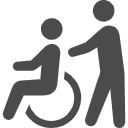
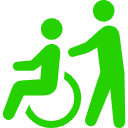
フォント・ボタン・アイコンの色を修正

diff --git a/map.html b/map.html
@@ -33,7 +33,7 @@
 <body>
     <div id="loading">
         <img id="loadImg1" src="./img/logo.png" alt="「いなさで暮らそうマップ」のロゴ">
-        <p>社会資源データを読み込んでいます...</p>
+        <p>社会資源データを<br>読み込んでいます...</p>
         <img id="loadImg2" src="./img/loading-square.gif" alt="ローディングのアニメーション">
     </div>
     <header>
@@ -42,7 +42,6 @@
         <div id="hamburger"><span></span><span></span><span></span><span>メニュー</span></div>
         <nav class="menu">
             <ul>
-                <!-- <li class="menu-item">メニュー</li> -->
                 <li class="menu-item"><a href="./index.html">トップページ</a></li>
                 <li class="menu-item"><a href="./list.html">社会資源一覧ページ</a></li>
                 <li class="menu-item"><a href="https://hamabosai.maps.arcgis.com/apps/webappviewer/index.html?id=d4070f31679d487ab858eb38d1d6ae3a" target="_blank">浜松市防災マップ</a></li>
@@ -55,7 +54,8 @@
     <div id="inasa-map"></div>
 
     <div id="checkbox">
-        <input id="check-close" type="button" value="閉じる">
+        <!-- <input id="check-close" type="button" value="閉じる"> -->
+        <a id="check-open-close">閉じる</a>
         <input id="acd-check" type="checkbox" checked><label id="acd-label" for="acd-check">「できること検索」を開閉する</label>
         <div id="acd-content">
             <form name="form1">
@@ -80,16 +80,19 @@
                 <input id="check8" type="checkbox" name="dekirukoto" value="出かける" checked><label for="check8">出かける</label>
                 <input id="check9" type="checkbox" name="dekirukoto" value="ボランティア" checked><label for="check9">ボランティア</label>
             </form>
-            <input type="button" value="すべてにチェック" onclick="checkAll()">
-            <input type="button" value="すべてのチェックを外す" onclick="checkNone()"><br class="br-350">
-            <input id="search-button" type="button" value="検索する" onclick="dkrSearch(); gtag('event', 'tap', {'event_category': 'dkrSearch', 'event_label': 'dkrSearch-tap', 'value': '1'})">
+            <!-- <input type="button" value="すべてにチェック" onclick="checkAll()"> -->
+            <a class="check-all-none" onclick="checkAll()">すべてにチェック</a>
+            <!-- <input type="button" value="すべてのチェックを外す" onclick="checkNone()"> -->
+            <a class="check-all-none" onclick="checkNone()">すべてのチェックを外す</a><br class="br-350">
+            <!-- <input id="search-button" type="button" value="検索する" onclick="dkrSearch(); gtag('event', 'tap', {'event_category': 'dkrSearch', 'event_label': 'dkrSearch-tap', 'value': '1'})"> -->
+            <a id="search-button" onclick="dkrSearch(); gtag('event', 'tap', {'event_category': 'dkrSearch', 'event_label': 'dkrSearch-tap', 'value': '1'})">検索する</a>
         </div>
         <p id="hit-count"></p>
         <hr>
         <ul id="check-result"></ul>
     </div>
 
-    <input id="current-location-button" type="button" value="現在地を取得" onclick="getCurrentLocation(); gtag('event', 'tap', {'event_category': 'getCurrentLocation', 'event_label': 'getCurrentLocation-tap', 'value': '1'})">
+    <a id="current-location-button" onclick="getCurrentLocation(); gtag('event', 'tap', {'event_category': 'getCurrentLocation', 'event_label': 'getCurrentLocation-tap', 'value': '1'})">現在地を取得</a>
 
     <a id="modal-open-btn" href="">アイコンの凡例を表示</a>
     <div id="modal-wrapper">

diff --git a/css/map.css b/css/map.css
@@ -7,9 +7,9 @@
 } */
 
 /* bodyのデフォルトを定義 */
-/* body {
-    font-family: "Kosugi Maru", sans-serif;
-} */
+body {
+    font-family: 'Hiragino Kaku Gothic ProN','ヒラギノ角ゴ ProN W3',YuGothic,'Yu Gothic',sans-serif;
+}
 
 /* デフォルトのmarginを削除 */
 body, h1, h2, h3, p, ul, li {
@@ -161,14 +161,6 @@ header {
 .menu li {
     border-top: 1px solid lightgray;
 }
-/* .menu li:first-child {
-    color: white;
-    background-color: darkslategray;
-    text-align: center;
-    line-height: 40px;  /* headerに指定したline-heightの影響を打ち消す。 */
-    /* font-size: 12px;
-    border-top: none;
-} */
 .menu li a {
     display: block;
     padding: 0 25px;
@@ -194,9 +186,11 @@ header {
     left: 15px;
     z-index: 1; /* 「現在地を取得」より前に出すため。 */
 }
-#checkbox input[type="button"] {
-    color: black;
+#checkbox #check-open-close {
     background-color: white;
+    padding: 3px 5px;
+    border-radius: 5px;
+    border: solid 1px black;
 }
 /* チェックボックスのスタイルここから */
 #checkbox input[type="checkbox"] {
@@ -246,7 +240,7 @@ header {
     display: inline-block;
     margin: 4px 5px 5px 2px;
 }
-#checkbox #check-close.check-close ~ * {
+#checkbox #check-open-close.check-open-close ~ * {
     display: none;
 }
 #checkbox input#acd-check, #checkbox input#acd-check+label::before, #checkbox input#acd-check:checked+label::after {
@@ -255,8 +249,10 @@ header {
 #checkbox #acd-label {
     background-color: white;
     color: black;
-    padding: 3px 5px;
+    padding: 3px 5px 3px 0;
+    border-radius: 5px;
     margin: 0 7px;
+    border: solid 1px black;
 }
 #checkbox #acd-content {
     height: 0;
@@ -271,19 +267,27 @@ header {
     visibility: visible;
     margin-top: 15px;
 }
+#checkbox .check-all-none {
+    background-color: white;
+    padding: 3px 5px;
+    border-radius: 5px;
+    border: solid 1px black;
+}
 #checkbox #search-button {
     display: block;
+    width: 100px;
+    text-align: center;
     margin: 10px auto;
+    padding: 3px 5px;
     color: white;
     background-color: #457745;
-    border-color: white;
+    border-color: solid 1px white;
     border-radius: 5px;
 }
 #checkbox #hit-count {
     margin: 12px 0 4px 0;
 }
 #checkbox #check-result {
-    font-size: 14px;
     max-height: 345px;
     overflow-y: scroll;
 }
@@ -294,18 +298,22 @@ header {
 
 #current-location-button {
     position: absolute;
-    bottom: 80px;
+    bottom: 85px;
     left: 10px;
+    background-color: white;
+    font-size: 14px;
+    padding: 3px 5px;
+    border-radius: 5px;
+    border: solid 1px black;
 }
 
 /* アイコン凡例のモーダルここから */
 #modal-open-btn {
-    display: inline-block;
     position: absolute;
     bottom: 50px;
     left: 10px;
     background-color: white;
-    font-size: 12px;
+    font-size: 14px;
     padding: 3px 5px;
     border-radius: 5px;
     border: solid 1px black;
@@ -427,7 +435,7 @@ footer {
     /* ここまで「できること」検索 */
 
     #current-location-button {
-        bottom: 120px;
+        bottom: 125px;
     }
     #modal-open-btn {
         bottom: 90px;
@@ -445,7 +453,7 @@ footer {
     }
 
     #current-location-button {
-        bottom: 90px;
+        bottom: 95px;
     }
     #modal-open-btn {
         bottom: 60px;

diff --git a/js/map.js b/js/map.js
@@ -110,12 +110,12 @@ $(function() {
         })
     });
 
-    $("#check-close").click(function() {
-        $(this).toggleClass("check-close");
-        if($(this).hasClass("check-close")) {
-            $(this).attr("value", "開く");
+    $("#check-open-close").click(function() {
+        $(this).toggleClass("check-open-close");
+        if($(this).hasClass("check-open-close")) {
+            $(this).text('開く');
         } else {
-            $(this).attr("value", "閉じる");
+            $(this).text('閉じる');
         }
     });
 

diff --git a/detail.html b/detail.html
@@ -28,7 +28,7 @@
 <body>
     <div id="loading">
         <img id="loadImg1" src="./img/logo.png" alt="「いなさで暮らそうマップ」のロゴ">
-        <p>社会資源データを読み込んでいます...</p>
+        <p>社会資源データを<br>読み込んでいます...</p>
         <img id="loadImg2" src="./img/loading-square.gif" alt="ローディングのアニメーション">
     </div>
     <header>

diff --git a/list.html b/list.html
@@ -33,7 +33,7 @@
 <body>
     <div id="loading">
         <img id="loadImg1" src="./img/logo.png" alt="「いなさで暮らそうマップ」のロゴ">
-        <p>社会資源データを読み込んでいます...</p>
+        <p>社会資源データを<br>読み込んでいます...</p>
         <img id="loadImg2" src="./img/loading-square.gif" alt="ローディングのアニメーション">
     </div>
 

diff --git a/css/detail.css b/css/detail.css
@@ -7,9 +7,9 @@
 } */
 
 /* bodyのデフォルトを定義 */
-/* body {
-    font-family: "Kosugi Maru", sans-serif;
-} */
+body {
+    font-family: 'Hiragino Kaku Gothic ProN','ヒラギノ角ゴ ProN W3',YuGothic,'Yu Gothic',sans-serif;
+}
 
 /* デフォルトのmarginを削除 */
 body, h1, h2, h3, p, ul, li {

diff --git a/css/index.css b/css/index.css
@@ -7,9 +7,9 @@
 } */
 
 /* bodyのデフォルトを定義 */
-/* body {
-    font-family: "Kosugi Maru", sans-serif;
-} */
+body {
+    font-family: 'Hiragino Kaku Gothic ProN','ヒラギノ角ゴ ProN W3',YuGothic,'Yu Gothic',sans-serif;
+}
 
 /* デフォルトのmarginを削除 */
 body, h1, h2, h3, p, ul, li {

diff --git a/css/list.css b/css/list.css
@@ -7,9 +7,9 @@
 } */
 
 /* bodyのデフォルトを定義 */
-/* body {
-    font-family: "Kosugi Maru", sans-serif;
-} */
+body {
+    font-family: 'Hiragino Kaku Gothic ProN','ヒラギノ角ゴ ProN W3',YuGothic,'Yu Gothic',sans-serif;
+}
 
 /* デフォルトのmarginを削除 */
 body, h1, h2, h3, p, ul, li {
